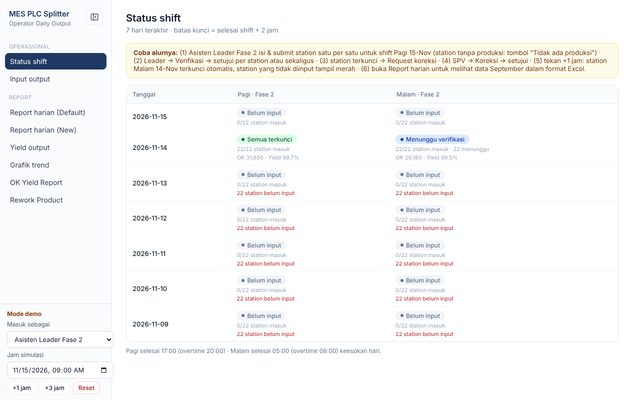
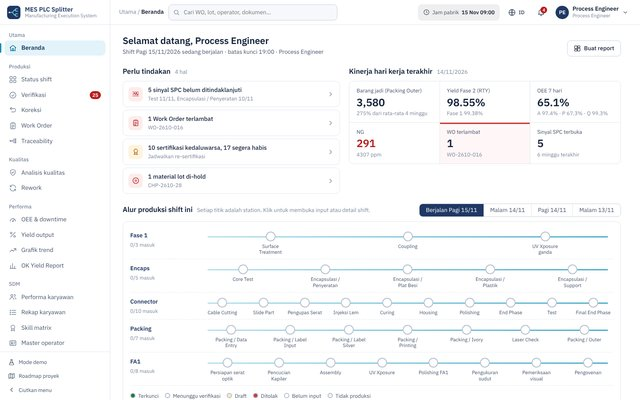
Update konten hub: MES prototype Fase A (mes-dup) & Mandarin Word List
- Tile "Featured app" dan kartu MES kini mengarah ke demo live mes-dup
  (prototype Fase A) dengan screenshot beranda terbaru, teks EN/ID/中文
- Kartu Mandarin: kamus pabrik 527 entri + latihan 30 hari, HSK 3.0
- Status 34 project dicek ulang terhadap README tiap repo: tidak berubah

Claude-Session: https://claude.ai/code/session_012YpKXG8iu7cWr58Jm2UCHU

diff --git a/data/showcase.js b/data/showcase.js
@@ -44,10 +44,11 @@ window.SHOWCASE = {
   ],
   apps: [
     { id: "mes", group: "work", title: "MES PLC Splitter",
-      tag: { en: "Used on the production floor", zh: "用于生产现场", id: "Dipakai di lantai produksi" },
-      desc: { en: "Replaces the operator daily-output Excel workbook: output, yield, trends, and operator performance in one place.", zh: "取代作业员每日产量 Excel：产量、良率、趋势和作业员绩效集中在一处。",
-              id: "Pengganti workbook Excel output harian operator: output, yield, tren, dan performa operator di satu tempat." },
-      stack: ["Flask", "SQLite", "Chart.js"], repo: "https://github.com/bagusbernadi/mes-que-un-club" },
+      tag: { en: "Prototype Phase A · 6 user roles · EN/ID/中文", zh: "原型 A 阶段 · 6 种用户角色 · EN/ID/中文", id: "Prototype Fase A · 6 role pengguna · EN/ID/中文" },
+      desc: { en: "Replaces the operator daily-output Excel: shift input with e-signature, Pareto & SPC, OEE, skill matrix, work orders & lot traceability, SOP/OPL control, and a drag & drop report builder.",
+              zh: "取代作业员每日产量 Excel：班次录入与电子签名、柏拉图与 SPC、OEE、技能矩阵、工单与批次追溯、SOP/OPL 文件管理，以及拖放式报表生成器。",
+              id: "Pengganti Excel output harian operator: input per shift dengan e-signature, Pareto & SPC, OEE, skill matrix, Work Order & traceability lot, kontrol SOP/OPL, dan report builder drag & drop." },
+      stack: ["JavaScript", "Chart.js", "Python build"], live: "https://bagusbernadi.github.io/mes-dup/", repo: "https://github.com/bagusbernadi/mes-dup" },
     { id: "quiz", group: "work", title: "Operator Competency Quiz",
       tag: { en: "Used for hiring & evaluation", zh: "用于招聘与考核", id: "Dipakai untuk rekrutmen & evaluasi" },
       desc: { en: "Mobile-first test for new and current operators: one question per screen, results saved automatically.", zh: "面向新老作业员的手机测试：每屏一题，结果自动保存。",
@@ -74,9 +75,10 @@ window.SHOWCASE = {
               id: "Cara merencanakan, membuat spesifikasi, dan membangun tools kerja dengan Claude secara aman, untuk pemula." },
       stack: ["HTML", "CSS", "JS"], live: "https://bagusbernadi.github.io/vibe-coding-class/", repo: "https://github.com/bagusbernadi/vibe-coding-class" },
     { id: "mandarin", group: "language", title: "Mandarin Word List + HSK 1–3",
-      tag: { en: "1,000-word dictionary, timed exams", zh: "1,000 词词典，限时模考", id: "Kamus 1.000 kata, simulasi ujian" },
-      desc: { en: "Personal factory dictionary generated from Excel, plus HSK 3.0 lessons, question bank, and exam simulation.", zh: "由 Excel 自动生成的工厂个人词典，另有 HSK 3.0 课程、题库和模拟考试。",
-              id: "Kamus pribadi untuk pabrik yang dibuat otomatis dari Excel, plus materi HSK 3.0, bank soal, dan simulasi ujian." },
+      tag: { en: "527-entry factory dictionary + HSK 1–3", zh: "527 条工厂词典 + HSK 1–3", id: "Kamus pabrik 527 entri + HSK 1–3" },
+      desc: { en: "Personal factory dictionary generated from Excel with quizzes and a 30-day drill, plus HSK 3.0 (13 modules, 1,000 words, question bank, timed exam).",
+              zh: "由 Excel 自动生成的工厂个人词典，附测验和 30 天练习；另有 HSK 3.0（13 个模块、1,000 词、题库、限时模考）。",
+              id: "Kamus pribadi pabrik yang dibuat otomatis dari Excel, dengan kuis dan latihan 30 hari, plus HSK 3.0 (13 modul, 1.000 kata, bank soal, simulasi ujian berwaktu)." },
       stack: ["Python", "HTML/JS"], live: "https://bagusbernadi.github.io/Mandarin-Word-List/", repo: "https://github.com/bagusbernadi/Mandarin-Word-List" },
     { id: "arabic", group: "language", title: "Quran Arabic Word List",
       tag: { en: "18,242 words · 114 surahs", zh: "18,242 个词 · 114 章", id: "18.242 kata · 114 surah" },

diff --git a/index.html b/index.html
@@ -17,7 +17,7 @@ if((q||localStorage.getItem("view"))==="classic"){var u=new URLSearchParams(loca
 <link rel="icon" href="assets/favicon.svg" type="image/svg+xml">
 <link rel="preconnect" href="https://fonts.googleapis.com"><link rel="preconnect" href="https://fonts.gstatic.com" crossorigin>
 <link rel="stylesheet" href="https://fonts.googleapis.com/css2?family=Inter:wght@400;500;600;700&family=Noto+Sans+SC:wght@400;500;700&family=Space+Grotesk:wght@500;600;700&display=swap">
-<link rel="stylesheet" href="assets/style.css?v=20261118a">
+<link rel="stylesheet" href="assets/style.css?v=20261118b">
 <script type="application/ld+json">{"@context":"https://schema.org","@type":"Person","name":"Bagus Bernadi","jobTitle":"Process Engineer → Data Analyst","url":"https://bagusbernadi.github.io/","sameAs":["https://github.com/bagusbernadi","https://www.linkedin.com/in/bagus-bernadi/"],"knowsAbout":["SQL","Python","Statistics","SPC","Dashboards","Excel automation","Manufacturing analytics"]}</script>
 </head>
 <body>
@@ -37,7 +37,7 @@ if((q||localStorage.getItem("view"))==="classic"){var u=new URLSearchParams(loca
   <div class="cta"><a class="btn pri" href="#work" data-i="hero.b1"></a><a class="btn" href="#services" data-i="hero.b2"></a></div></div>
  <div class="t num"><b id="nP"></b><span data-i="n.p"></span><small id="nD"></small></div>
  <div class="t num n2"><b id="nA"></b><span data-i="n.a"></span><small data-i="n.as"></small></div>
- <a class="t shot" href="https://github.com/bagusbernadi/mes-que-un-club" target="_blank" rel="noopener"><img src="assets/thumbs/mes.jpg" alt="MES PLC Splitter"><div><span class="k" data-i="shot.k"></span><h3>MES PLC Splitter</h3><p data-i="shot.p"></p></div></a>
+ <a class="t shot" href="https://bagusbernadi.github.io/mes-dup/" target="_blank" rel="noopener"><img src="assets/thumbs/mes.jpg" alt="MES PLC Splitter"><div><span class="k" data-i="shot.k"></span><h3>MES PLC Splitter</h3><p data-i="shot.p"></p></div></a>
  <div class="t open"><span class="dot"><i></i><span data-i="open.h"></span></span><p data-i="open.p"></p></div>
  <div class="t stack"><h3 data-i="stack.h"></h3><div class="chips" id="chips"></div></div>
  <div class="t talk"><h3 data-i="talk.h"></h3><p data-i="talk.p"></p><a class="btn wa sm" id="waT" target="_blank" rel="noopener" data-i="talk.b"></a></div>
@@ -75,8 +75,8 @@ if((q||localStorage.getItem("view"))==="classic"){var u=new URLSearchParams(loca
 </div>
 <button class="totop" id="totop" type="button" aria-label="Back to top">↑</button>
 
-<script src="data/projects.js?v=20261118a"></script>
-<script src="data/showcase.js?v=20261118a"></script>
-<script src="assets/app.js?v=20261118a"></script>
+<script src="data/projects.js?v=20261118b"></script>
+<script src="data/showcase.js?v=20261118b"></script>
+<script src="assets/app.js?v=20261118b"></script>
 </body>
 </html>

diff --git a/assets/app.js b/assets/app.js
@@ -21,7 +21,7 @@ en: {
  "hero.p": "I find the real cause behind yield loss, defects, and rework, then build the dashboards and tools that keep the fix in place.",
  "hero.b1": "See my work", "hero.b2": "Hire me for a project",
  "n.p": "analytics projects", nD: d => `${d} published with full reports`, "n.a": "web apps built", "n.as": "work, learning & daily use",
- "shot.k": "Featured app", "shot.p": "Replaces the operator daily-output Excel on the production floor.",
+ "shot.k": "Featured app · new", "shot.p": "MES prototype: shift input, e-signature, SPC, OEE, traceability. Try the demo →",
  "open.h": "Available", "open.p": "Open to Data Analyst roles (Indonesia or remote) and freelance projects.",
  "stack.h": "Most-used skills · click to see the projects",
  "talk.h": "Got a messy Excel?", "talk.p": "Send a sample. I'll tell you what can be automated.", "talk.b": "Chat on WhatsApp",
@@ -51,7 +51,7 @@ id: {
  "hero.p": "Saya mencari penyebab sebenarnya dari yield loss, defect, dan rework, lalu membangun dashboard dan tools agar perbaikannya bertahan.",
  "hero.b1": "Lihat karya saya", "hero.b2": "Pakai jasa saya",
  "n.p": "project analisis data", nD: d => `${d} sudah terbit dengan laporan lengkap`, "n.a": "web app dibuat", "n.as": "kerja, belajar & harian",
- "shot.k": "Aplikasi unggulan", "shot.p": "Pengganti Excel output harian operator di lantai produksi.",
+ "shot.k": "Aplikasi unggulan · baru", "shot.p": "Prototype MES: input shift, e-signature, SPC, OEE, traceability. Coba demonya →",
  "open.h": "Tersedia", "open.p": "Terbuka untuk posisi Data Analyst (Indonesia atau remote) dan project freelance.",
  "stack.h": "Skill paling sering dipakai · klik untuk melihat project-nya",
  "talk.h": "Punya Excel yang berantakan?", "talk.p": "Kirim contohnya. Saya beri tahu bagian mana yang bisa diotomasi.", "talk.b": "Chat via WhatsApp",
@@ -81,7 +81,7 @@ zh: {
  "hero.p": "我找出良率损失、不良和返工背后的真正原因，再搭建看板和工具，让改善成果持续有效。",
  "hero.b1": "查看作品", "hero.b2": "委托项目",
  "n.p": "个数据分析项目", nD: d => `其中 ${d} 个已发布完整报告`, "n.a": "个 Web 应用", "n.as": "工作、学习与日常使用",
- "shot.k": "精选应用", "shot.p": "在生产现场取代作业员每日产量 Excel。",
+ "shot.k": "精选应用 · 新", "shot.p": "MES 原型：班次录入、电子签名、SPC、OEE、批次追溯。试用演示 →",
  "open.h": "可接洽", "open.p": "寻求数据分析师职位（印尼或远程）及自由职业项目。",
  "stack.h": "最常用技能 · 点击查看相关项目",
  "talk.h": "Excel 太乱？", "talk.p": "发个样本给我，我告诉您哪些可以自动化。", "talk.b": "WhatsApp 联系",
